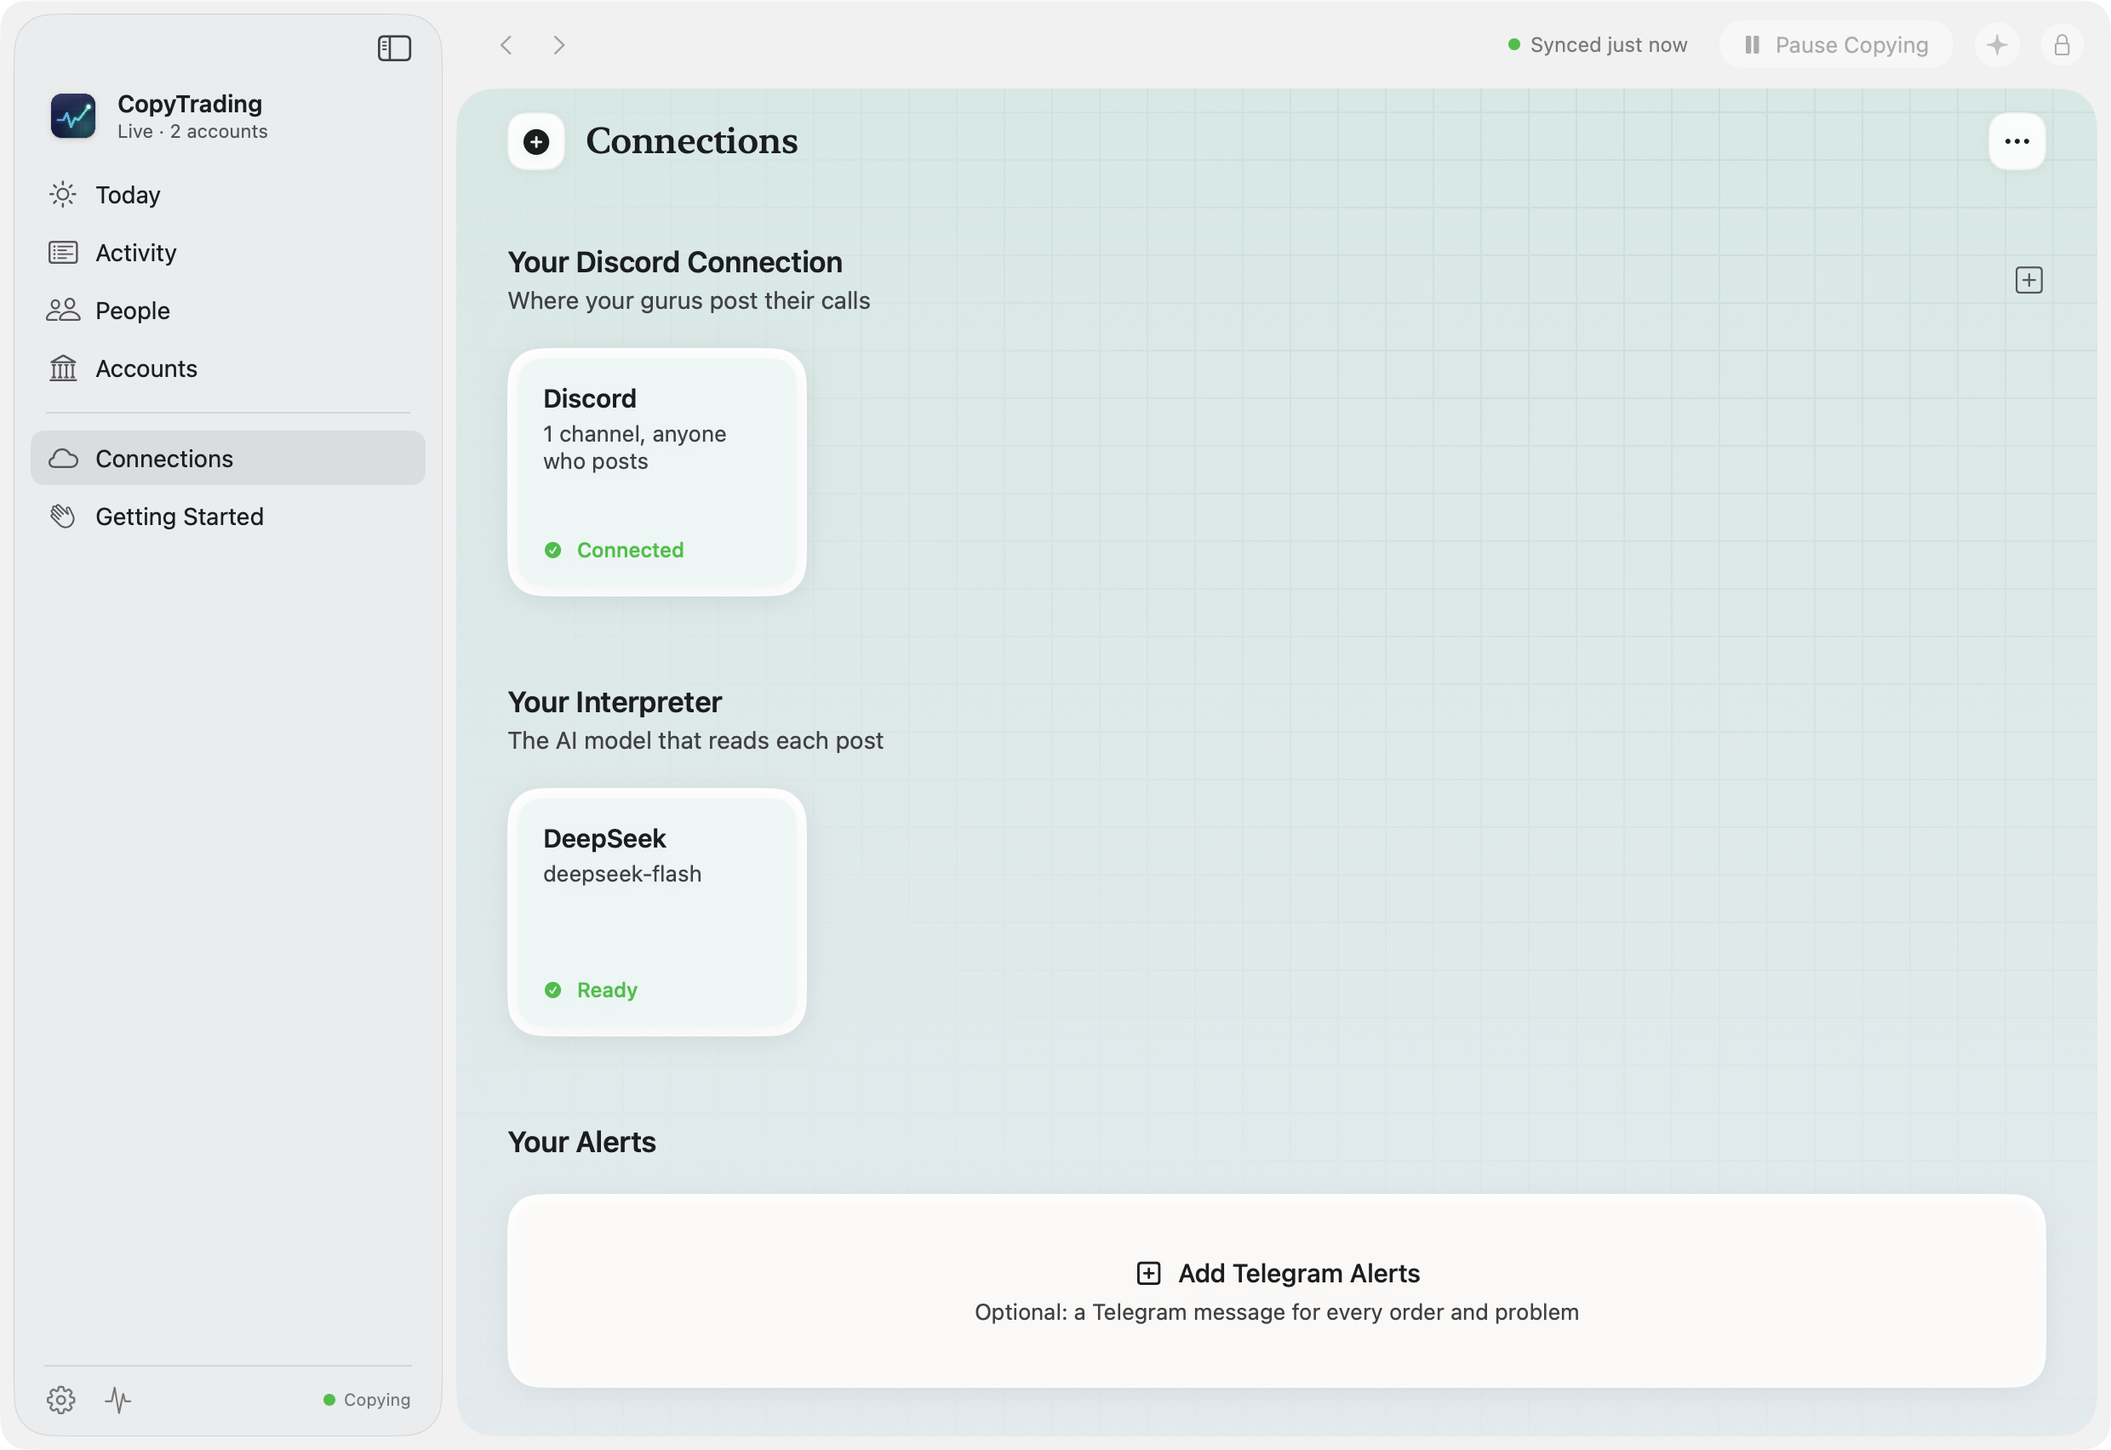
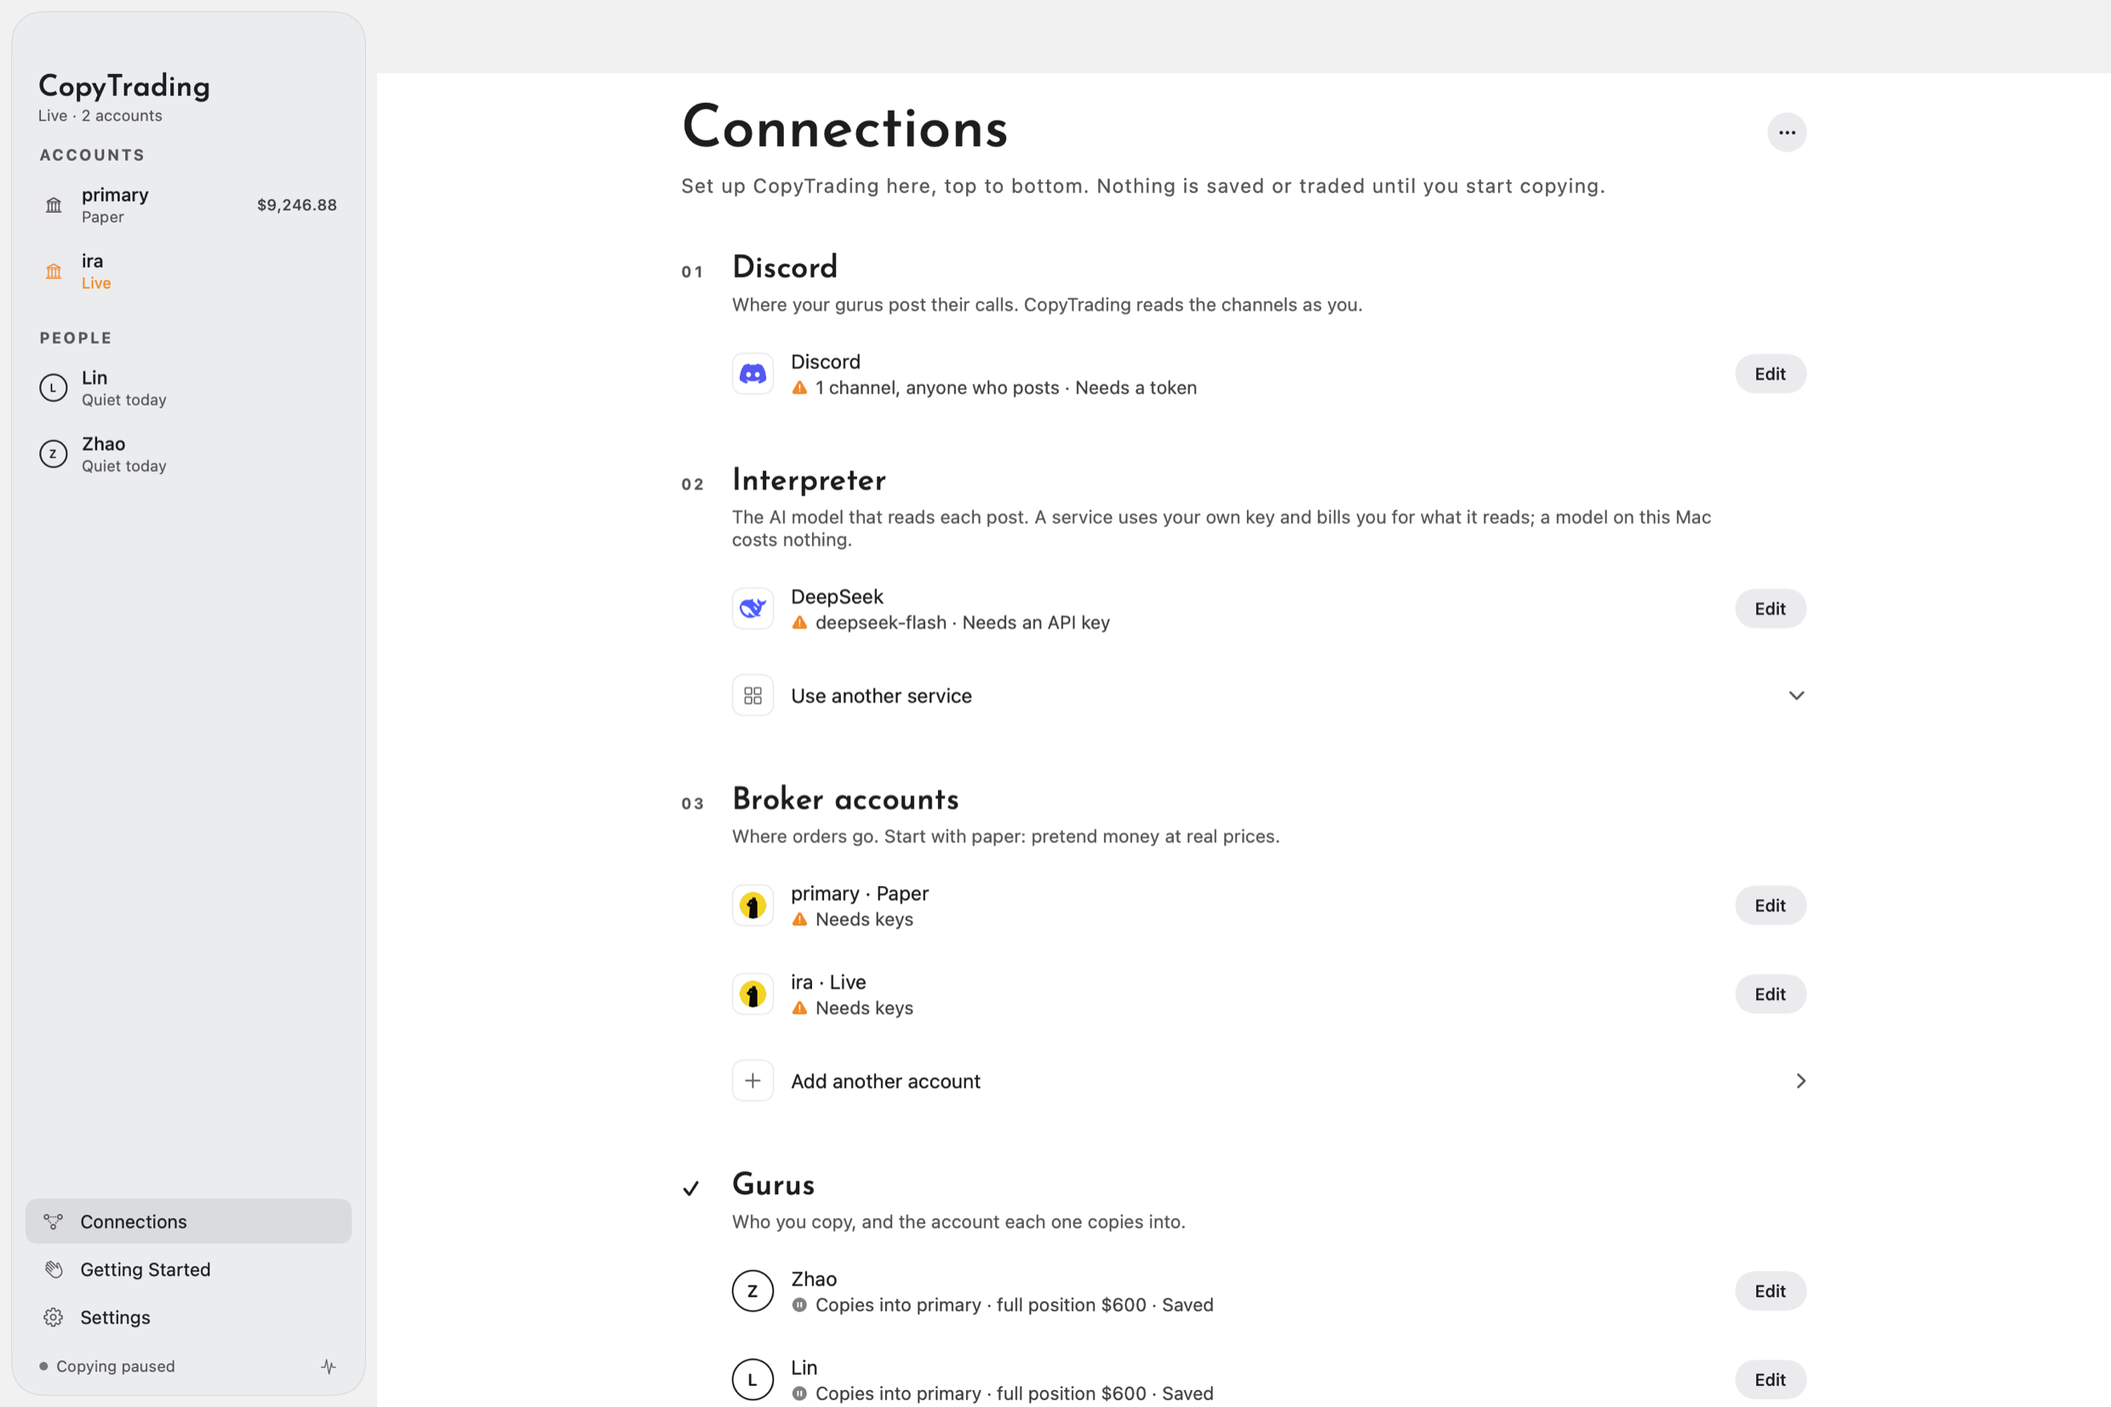
Release 0.1.0-alpha.9: changelog, README, screenshots, and download links
The changelog's alpha.9 section, both READMEs on the new app (screenshots of an
account, a guru, a guru's settings and Connections in English and Chinese, the
new icon, current features and setup), and the paused reader in the architecture.

Claude-Session: https://claude.ai/code/session_01FSmZjkTWfnTTjHLmHvuQGL

diff --git a/README.md b/README.md
@@ -17,7 +17,7 @@
 </p>
 
 <p align="center">
-  <a href="https://github.com/YZXBiz/copytrading/releases/download/v0.1.0-alpha.8/CopyTrading-0.1.0-alpha.8.dmg"><img src="https://img.shields.io/badge/Download_for_macOS-0.1.0--alpha.8-1d1d1f?style=for-the-badge&logo=apple&logoColor=white" alt="Download CopyTrading for macOS" height="36"></a>
+  <a href="https://github.com/YZXBiz/copytrading/releases/download/v0.1.0-alpha.9/CopyTrading-0.1.0-alpha.9.dmg"><img src="https://img.shields.io/badge/Download_for_macOS-0.1.0--alpha.9-1d1d1f?style=for-the-badge&logo=apple&logoColor=white" alt="Download CopyTrading for macOS" height="36"></a>
 </p>
 
 <p align="center">
@@ -36,7 +36,7 @@ CopyTrading is a native macOS app that reads the stock calls traders post on Dis
 > **Developer preview.** CopyTrading has not been qualified for live trading. Start with an Alpaca paper account, and see [validation](docs/validation.md) for what has and has not been proven.
 
 <p align="center">
-  <a href="docs/assets/today.png"><img src="docs/assets/today.png" alt="Today: the day's change, the equity curve, what happened to each post, and limit usage (sample data)" width="860"></a>
+  <a href="docs/assets/account.png"><img src="docs/assets/account.png" alt="An account: its balance and the day's change, the equity curve, cash and buying power beside today's loss and what is in stocks against their limits, and each position with whose shares they are (sample data)" width="860"></a>
 </p>
 
 <details>
@@ -44,14 +44,14 @@ CopyTrading is a native macOS app that reads the stock calls traders post on Dis
 <br>
 <table>
   <tr>
-    <td width="33%"><a href="docs/assets/accounts.png"><img src="docs/assets/accounts.png" alt="Accounts: balance, limits, and positions opened into the posts that bought them (sample data)"></a></td>
-    <td width="33%"><a href="docs/assets/people.png"><img src="docs/assets/people.png" alt="People: each trader's latest call, how their recent posts went, and the accounts that copy them (sample data)"></a></td>
-    <td width="33%"><a href="docs/assets/connections.png"><img src="docs/assets/connections.png" alt="Connections: Discord, the model that reads posts, and alerts (sample data)"></a></td>
+    <td width="33%"><a href="docs/assets/guru.png"><img src="docs/assets/guru.png" alt="A guru: today's numbers and every post on one timeline, with what each account did (sample data)"></a></td>
+    <td width="33%"><a href="docs/assets/guru-sheet.png"><img src="docs/assets/guru-sheet.png" alt="A guru's settings: where they post, the account they copy into with what each call buys, and their playbook (sample data)"></a></td>
+    <td width="33%"><a href="docs/assets/connections.png"><img src="docs/assets/connections.png" alt="Connections: Discord, the model that reads posts, broker accounts, and gurus (sample data)"></a></td>
   </tr>
   <tr>
-    <td align="center"><sub><b>Accounts</b>: every position traces to its posts</sub></td>
-    <td align="center"><sub><b>People</b>: who you copy and how it went</sub></td>
-    <td align="center"><sub><b>Connections</b>: Discord, the model, alerts</sub></td>
+    <td align="center"><sub><b>A guru</b>: every post and what came of it</sub></td>
+    <td align="center"><sub><b>A guru's settings</b>: what each call buys</sub></td>
+    <td align="center"><sub><b>Connections</b>: set up top to bottom</sub></td>
   </tr>
 </table>
 </details>
@@ -61,7 +61,10 @@ CopyTrading is a native macOS app that reads the stock calls traders post on Dis
 - **Posts become exact orders.** A model you choose reads each post, and every ticker, price, and fraction must appear in the post itself, so it cannot invent a number.
 - **Your limits, per account.** Daily loss, per-order, per-symbol, and total exposure limits are checked before every copied buy. New accounts start with entries off.
 - **Many traders, many accounts.** Each trader-to-account link has its own sizing, and paper and live accounts sit side by side.
-- **Every position traces to its post.** Each copied buy is kept as a lot that names the post behind it, and you can sell any lot on its own.
+- **Every position traces to its post.** Each copied buy is kept as a lot that names the post behind it, and you can sell any lot on its own. Shares you trade yourself in Alpaca are counted as yours on the next sync.
+- **Always live.** Balances, positions, and the equity curve are read from your broker even while copying is paused. Fills arrive as notifications, the menu bar shows today's change, and after time away a recap says what happened.
+- **Room to change your mind.** A sale or a confirmed copy waits a few seconds with Undo before it leaves, and a skipped call can be brought back.
+- **Fast to get around.** Accounts and gurus are the sidebar; ⌘K finds any page, action, or post; Control-1 and Control-2 switch a page's tabs.
 - **An assistant that cannot trade on its own.** ⌘J answers from your real posts and accounts. Anything that could place an order waits for your Touch ID.
 - **Private by design.** Keys stay in the macOS Keychain. The app talks to Discord, your model provider, and your broker, plus Telegram if you turn on alerts and GitHub when you check for updates.
 
@@ -71,7 +74,7 @@ Works with a dozen hosted model services, local models through Ollama, or any Op
 
 You need an Apple silicon Mac running macOS 26 or later.
 
-1. **[Download CopyTrading for macOS](https://github.com/YZXBiz/copytrading/releases/download/v0.1.0-alpha.8/CopyTrading-0.1.0-alpha.8.dmg)** (55 MB).
+1. **[Download CopyTrading for macOS](https://github.com/YZXBiz/copytrading/releases/download/v0.1.0-alpha.9/CopyTrading-0.1.0-alpha.9.dmg)** (55 MB).
 2. Open the DMG and drag **CopyTrading** into **Applications**.
 3. Open CopyTrading. Preview builds are not yet notarized by Apple, so the first time macOS blocks it: go to **System Settings → Privacy & Security** and choose **Open Anyway**. You only do this once.
 
@@ -89,17 +92,17 @@ make app
 
 ## Get started
 
-The app opens on **Getting Started**, a checklist that ticks itself as you go. Nothing is saved or traded until you press **Start Copying**.
+A first launch opens on **Connections** with a short tour that points at each next step. Nothing is saved or traded until you press **Start Copying**.
 
 Everything is set up in **Connections**, top to bottom:
 
 1. **Discord**: the channels to read and your Discord token.
 2. **Interpreter**: the model that reads posts, and its API key.
 3. **Broker accounts**: an Alpaca **paper** account.
-4. **Gurus**: press **Learn from Channel**, review the playbook it drafts, and set how much each account puts in.
+4. **Gurus**: choose the account each guru copies into (its max per stock is the guru's full position), press **Learn from Channel**, and review the playbook it drafts.
 5. Press **Start Copying**. It checks every connection first, and starts only when they all pass.
 
-Every field that needs a key or an ID has a **Where do I find this?** link. When you are ready, turn on entries in **Accounts** and watch the first post arrive in **Activity**.
+Every field that needs a key or an ID has a **Where do I find this?** link. When you are ready, press **Resume Entries** on the account's page and watch the first post arrive on the guru's page.
 
 ## How it works
 
@@ -142,7 +145,7 @@ The engine also runs without the app, on a Mac or a Linux server, so copying con
 
 ## Contributing
 
-Run `make doctor` to check your Mac, then `make check` for the engine's 1,200+ tests, Ruff, and Ty. [CONTRIBUTING.md](CONTRIBUTING.md) covers the native app checks and conventions. Ask questions in [Discussions](https://github.com/YZXBiz/copytrading/discussions), report bugs with the [issue forms](https://github.com/YZXBiz/copytrading/issues/new/choose), and report vulnerabilities privately as described in [SECURITY.md](SECURITY.md).
+Run `make doctor` to check your Mac, then `make check` for the engine's 1,500+ tests, Ruff, and Ty. [CONTRIBUTING.md](CONTRIBUTING.md) covers the native app checks and conventions. Ask questions in [Discussions](https://github.com/YZXBiz/copytrading/discussions), report bugs with the [issue forms](https://github.com/YZXBiz/copytrading/issues/new/choose), and report vulnerabilities privately as described in [SECURITY.md](SECURITY.md).
 
 ## License
 

diff --git a/CHANGELOG.md b/CHANGELOG.md
@@ -2,6 +2,47 @@
 
 User-visible changes for each release are recorded here. Every GitHub release's notes come from its section. See [releases](docs/releases.md) for how a release is cut and [validation](docs/validation.md) for what is and is not proven.
 
+## 0.1.0-alpha.9 — developer preview
+
+A new look, accounts and gurus as the app's two places, and copying that keeps going when you trade by hand.
+
+### A calmer, clearer app
+
+- **Accounts and gurus are the sidebar.** Each account is a page: its balance and the day's change, the equity curve, then one band with cash, buying power, today's loss and what is in stocks against their limits, and the caps with **Edit Limits** on one quiet line. Below it, **Positions** and **Activity**; Control-1 and Control-2 switch between them. Each guru is a page too: today's numbers and every post on one timeline, a day at a time, with what each account did.
+- **A new look throughout.** Names and headings in a geometric display face, labels in tracked capitals, ink lines on white, and no boxes. Grey rules are gone: sections are set apart by space and their titles, and a text field sits on a dotted line that turns solid while you type. Colour carries meaning only: sage for what went through, blush for what failed, sky for an order still at the broker, butter where your eye should land.
+- **A post opens beside the page** from Needs You, Activity, or a position, with the guru's words large, a price ruler for each order, and the post's journey as one line.
+- **Positions read like a terminal.** Shares line up on the decimal point, and every row says whose shares they are: "from Zhao", "yours", or both. A lot opens to the post that bought it.
+- **A new icon**: a white sheet with an ink ring and a butter disc.
+
+### Always live
+
+- **Accounts stay live while copying is paused.** Balances, positions and the equity curve are read from Alpaca whenever the app is unlocked; copying only decides whether orders go out. The keys stay in memory and are dropped when you lock. An account that hasn't been read yet shows dashes, never $0.
+- **Fills announce themselves** with a notification and a sound (Settings → General → While Copying).
+- **The menu bar shows today's change** and how many calls wait for you.
+- **A recap after time away**: the first open after six hours shows what filled, how each account moved, and what waits.
+- **Each guru's page says what you hold from their calls** and how it stands.
+
+### Room to change your mind
+
+- **A sale or a confirmed copy waits a few seconds with Undo** before it leaves for Alpaca (Off, 5 s or 10 s in Settings). A skipped call can be brought back for ten seconds, also with ⌘Z.
+- **⌘K (or ⌘F) opens a palette** that finds any account, guru or page, a few safe actions, and posts by their words.
+- **The window reopens where you left it**, on the same page and tab.
+
+### Copying
+
+- **Shares you buy or sell in Alpaca yourself sync on their own** ([ADR-0011](docs/adr/0011-holdings-sync-from-filled-counts.md)). Copied shares still held stay copied and the rest count as yours; a shortfall takes the oldest copied buys first. Activity says what happened in a sentence, and copying never stops for it. While an order you placed is still open in that stock, it waits for it.
+- **A sell with no price sells at the market**, as a limit 1% under the bid ("sell wmt half"), instead of waiting for you. With no fresh bid it waits and tries again until the post is too old; a vague trim with no size still waits for you.
+- **Changed limits reach running copying at once**, the moment the account sheet closes; Edit Limits opens straight on them.
+- **Holdings questions read as plain rows** and say when an order placed outside the app has to fill or be cancelled first. Resuming entries says why it can't, in your language.
+- **Review and Correct is plain choices**: buy or sell, the stocks you hold, how much, the price, the accounts, and one button that says what it will do.
+- **The interpreter writes its summary in the post's language.**
+
+### Setup
+
+- **Import Setup…** (File menu) fills Connections from a key file you choose.
+- **A guru's settings show what each call buys** in that account: the full position, a 1/6 and a 1/2 call, and a call with no size.
+- **Times read on one clock**, with a time-zone setting, and a newer version is offered in the window.
+
 ## 0.1.0-alpha.8 — developer preview
 
 Changes to your setup apply while copying runs.

diff --git a/docs/architecture.md b/docs/architecture.md
@@ -44,7 +44,7 @@ The parser stores original source payloads, accepted signal evidence, diagnostic
 
 Each guru-to-account connection carries fixed or proportional sizing and an immutable accepted revision. A missing fraction uses an explicitly configured default or requires review. Account lifecycle preferences and manual-command identities survive restart. Corrected interpretations require a fresh preview and explicit confirmed command; uncertain submissions reconcile under the same identity before another attempt.
 
-The app authenticates its window session through macOS and keeps authorized background processing independent of window visibility. Agents and scripts reach the engine through the `copytrading` CLI and MCP server: the app relays one `control` pipe operation, and the engine's `control` package applies tiers, limits and owner-approved proposals ([design](agent-control.md), [ADR-0005](adr/0005-agent-control-through-the-app.md)). Credentials reside in Keychain. The diagnostics journal lives under the installation's `logs/` directory, owner-only, and expires by whole UTC day and by a storage limit the owner chooses; operational evidence is never part of that retention. Capture gaps and journal health are visible in the app.
+The app authenticates its window session through macOS and keeps authorized background processing independent of window visibility. Agents and scripts reach the engine through the `copytrading` CLI and MCP server: the app relays one `control` pipe operation, and the engine's `control` package applies tiers, limits and owner-approved proposals ([design](agent-control.md), [ADR-0005](adr/0005-agent-control-through-the-app.md)). Credentials reside in Keychain. While the window is unlocked the app also hands the engine each account's broker keys for reading only (`attach_account_readers`), and takes them back on lock (`detach_account_readers`): a paused account's balance, positions and equity curve still come from the broker, through a reader that can make only those three reads and keeps the keys in memory. The diagnostics journal lives under the installation's `logs/` directory, owner-only, and expires by whole UTC day and by a storage limit the owner chooses; operational evidence is never part of that retention. Capture gaps and journal health are visible in the app.
 
 Restore uses isolated operational generations, manifest/schema checks, a durable startup gate, read-only broker evidence, and a native activation/rollback coordinator. Restored accounts remain disabled with manual recovery. Updates come through Sparkle: a release signs its DMG with an EdDSA key and publishes a feed the app checks daily, and Sparkle installs only when the owner asks ([ADR-0009](adr/0009-updates-with-sparkle.md)). These flows are implemented and locally verified with the packaged runtime. Signed distribution and the remaining public-release gates are unqualified. See [operations](operations.md) and [validation](validation.md).
 
